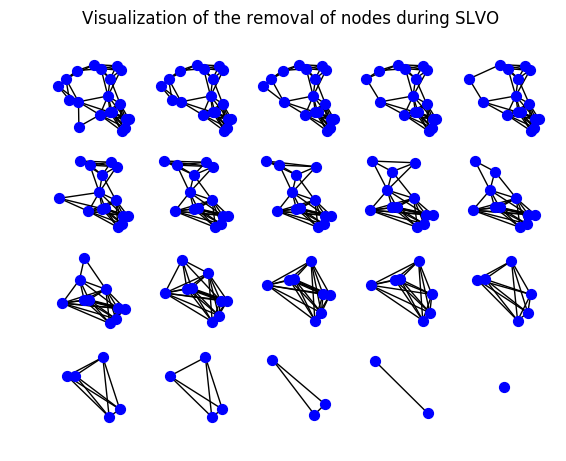
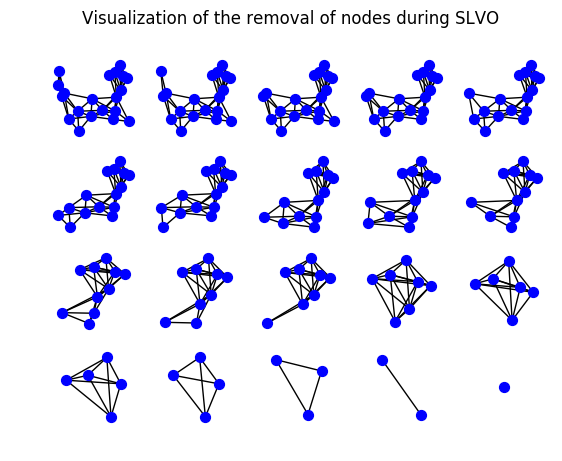
walkthrough visualization is done

diff --git a/main_drivers/walkthrough_vis.py b/main_drivers/walkthrough_vis.py
@@ -60,7 +60,7 @@ def compute_ordering(adj_list):
         else:
             current_state.append(adj_list[index])
     ordering_states.append(current_state)
-    return ordering, ordering_states
+    return ordering[::-1], ordering_states
 
 def draw_ordering_graph(ordering_states, positions):
     nodes = {}
@@ -90,34 +90,33 @@ def draw_ordering_graph(ordering_states, positions):
     plt.suptitle("Visualization of the removal of nodes during SLVO")
     plt.savefig("../results/walkthrough/ordering.png", bbox_inches="tight")
 
-def draw_coloring_graph(coloring_order, positions):
+
+def draw_coloring_graph(adj_list, coloring_order, positions, coloring):
+    colors = ['#6A1B9A', '#D50000', '#AEEA00', '#00B0FF', '#00B8D4', '#00BFA5', '#00C853', '#DD2C00', '#FFFF00']
     nodes = {}
     plot_index=0
     fig, axes = plt.subplots(4, 5)
     x = 0
     y = 0
-    for state in ordering_states[:-1]:
-        G = nx.Graph()
-        pos = {}
-        for index, position in enumerate(positions):
-            if state[index] is False:
-                continue
-            pos[index]=position
-            G.add_node(index, pos=position, size=1)
-        for node, neighbors in enumerate(state):
-            if neighbors is False:
-                continue
-            for neighbor in neighbors:
-                G.add_edge(node, neighbor)
-        nx.draw(G, pos=pos,node_color="blue", ax=axes[y, x], node_size=50)
+    node_colors=["#000000" for node in positions]
+    G = nx.Graph()
+    pos = {}
+    for index, position in enumerate(positions):
+        pos[index]=position
+        G.add_node(index, pos=position, size=1)
+    for node, neighbors in enumerate(adj_list):
+        for neighbor in neighbors:
+            G.add_edge(node, neighbor)
+    for node in coloring_order:
+        node_colors[node] = colors[coloring[node]]
+        nx.draw(G, pos=pos,node_color=node_colors, ax=axes[y, x], node_size=50)
         if x == 4:
             x = 0
             y = y + 1
         else:
             x = x + 1
     plt.suptitle("Coloring of Graph during SLVO Coloring")
-    plt.savefig("../results/walkthrough/ordering.png", bbox_inches="tight")
-
+    plt.savefig("../results/walkthrough/coloring.png", bbox_inches="tight")
 
 def draw_uncolored(adj_list, positions):
     plt.clf()
@@ -152,7 +151,7 @@ def draw_colored(adj_list, positions, coloring):
 
     plt.title("Colored Unit Square Graph with N=20, R=.4")
     nx.draw(G, pos=pos, node_color=color_map)
-    plt.savefig("../results/walkthrough/colored.png", bbox_inches="tight")
+    plt.savefig("../results/walkthrough/final_colored.png", bbox_inches="tight")
 
 if __name__ == "__main__":
     adj_list, positions = unit_square_graph(N, A, return_positions=True)
@@ -163,3 +162,4 @@ if __name__ == "__main__":
     draw_colored(adj_list, positions, coloring)
 
     draw_ordering_graph(ordering_states, positions)
+    draw_coloring_graph(adj_list, ordering, positions, coloring)
